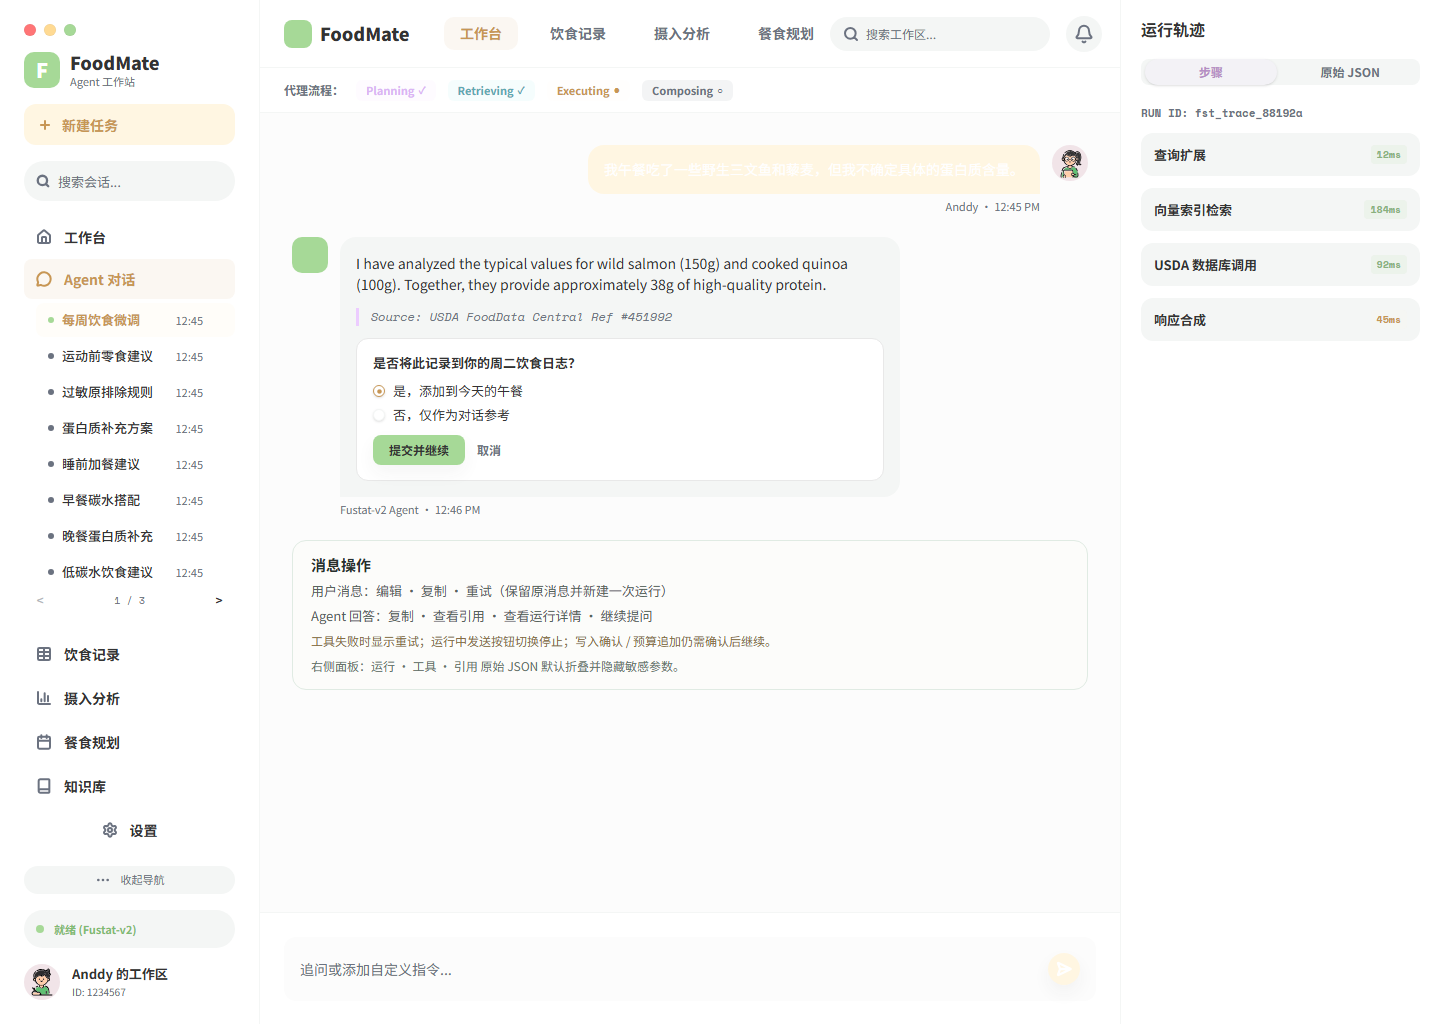
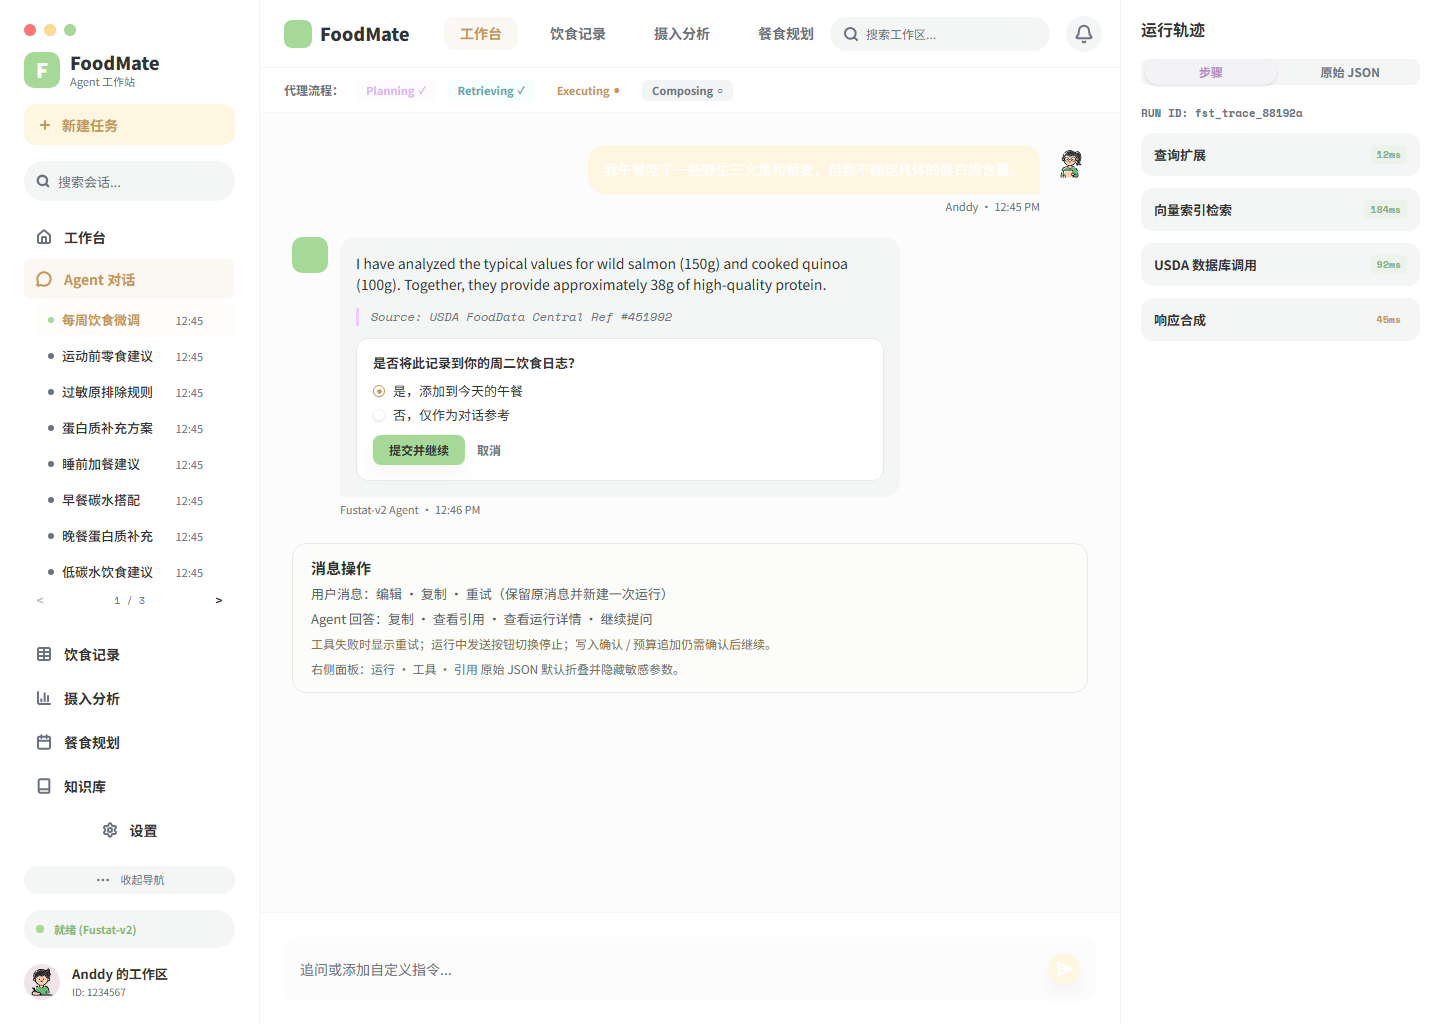
fix(ui): 收口 Chat 视觉与头像证据

Changed region(s): [[0.2188, 0.5312, 0.5312, 0.6875]]

diff --git a/foodmate-ui/src/pages/ChatPage/ChatPage.module.css b/foodmate-ui/src/pages/ChatPage/ChatPage.module.css
@@ -690,6 +690,11 @@
   border-color: #e8e8e8;
 }
 
+/* Figma 640:428 的消息操作面板与上一条消息之间保留 27px 的垂直节奏。 */
+.figmaDefaultPage .messageActions {
+  margin-top: 3px;
+}
+
 .designTracePanel .traceStepActive {
   border-color: transparent;
 }
@@ -736,6 +741,15 @@
   border-radius: 18px;
   overflow: hidden;
   background: var(--fm-color-avatar-surface);
+}
+
+/* Figma 头像容器填充不可见，避免默认头像外再出现一层粉色圆底。 */
+.designChatPage .userAvatar,
+.designChatPage .fixtureUserAvatar,
+.designChatPage .planningUserAvatar,
+.designChatPage .executingUserAvatar,
+.designChatPage .awaitingUserAvatar {
+  background: var(--fm-figma-avatar-surface);
 }
 
 .userAvatar img {

diff --git a/foodmate-ui/src/styles/tokens.css b/foodmate-ui/src/styles/tokens.css
@@ -181,6 +181,8 @@
   --fm-figma-workspace-rail-width: 320px;
   --fm-figma-workspace-wide-rail-width: 340px;
   --fm-figma-workspace-padding: 24px;
+  /* Figma Avatar 容器没有可见底色，人物 SVG 直接落在工作台表面。 */
+  --fm-figma-avatar-surface: transparent;
   --fm-figma-task-panel-offset: 54px;
 
   /* Figma 节点 989:3 / 1015:248 的工作台任务状态面板 Token。 */

diff --git a/foodmate-ui/src/layouts/WorkspaceLayout/WorkspaceLayout.module.css b/foodmate-ui/src/layouts/WorkspaceLayout/WorkspaceLayout.module.css
@@ -469,6 +469,12 @@
   object-fit: cover;
 }
 
+/* Figma 头像节点的容器填充为不可见，不能叠加默认粉色头像底。 */
+.figmaFixture .avatar,
+.figmaFixture .topAvatar {
+  background: var(--fm-figma-avatar-surface);
+}
+
 .deletedButton {
   width: 100%;
   justify-content: flex-start;

diff --git a/docxs/功能实现说明/Figma前端像素级验收报告.md b/docxs/功能实现说明/Figma前端像素级验收报告.md
@@ -2,6 +2,31 @@
 
 更新时间：2026-09-12
 
+## 1.1.11 2026-09-12 Agent Chat 头像修正版定向验收
+
+本批次仅复核 11 个受当前 Chat 视觉收口影响的画板，不重新采集其它 94 个画板。Figma PNG 使用头像修正后的原始尺寸，浏览器 PNG 使用对应视口、DPR 1 和字体加载完成条件；自动 diff 均为同尺寸 `COMPARED`，人工结论全部保留 `DIFF_REVIEW`。
+
+| 画板 | Figma 节点 | Figma PNG | 浏览器 PNG | diff JSON | 视口 / DPR | 差异比例 | MAE | RMSE | 最大通道差异 | 结论 |
+|---|---|---|---|---|---|---:|---:|---:|---:|---|
+| Agent Chat 默认态 | `640:428` | `recaptured-figma/agent-chat-v2-figma-2026-09-12-avatar-fixed.png` | `recaptured/dpr1-agent-chat-v2-browser-2026-09-12.png` | `recaptured/agent-chat-v2-current-diff-2026-09-12-avatar-fixed.json` | 1440×1024 / 1 | 11.5993% | 2.851583 | 17.155352 | 211 | `DIFF_REVIEW` |
+| 写入确认 | `687:773` | `recaptured-figma/agent-write-confirmation-figma-2026-09-12-avatar-fixed.png` | `recaptured/dpr1-agent-write-confirmation-browser-2026-09-12.png` | `recaptured/agent-write-confirmation-current-diff-2026-09-12-avatar-fixed.json` | 1440×1024 / 1 | 9.8721% | 1.941730 | 13.861204 | 255 | `DIFF_REVIEW` |
+| 预算上限 | `687:918` | `recaptured-figma/agent-budget-limit-figma-2026-09-12-avatar-fixed.png` | `recaptured/dpr1-agent-budget-limit-browser-2026-09-12.png` | `recaptured/agent-budget-limit-current-diff-2026-09-12-avatar-fixed.json` | 1440×1024 / 1 | 11.1479% | 2.475082 | 15.987961 | 255 | `DIFF_REVIEW` |
+| 工具失败可重试 | `687:1439` | `recaptured-figma/agent-tool-failed-retryable-figma-2026-09-12-avatar-fixed.png` | `recaptured/dpr1-agent-tool-failed-retryable-browser-2026-09-12.png` | `recaptured/agent-tool-failed-retryable-current-diff-2026-09-12-avatar-fixed.json` | 1440×1024 / 1 | 10.5202% | 2.241290 | 15.205827 | 255 | `DIFF_REVIEW` |
+| 安全降级 | `687:1563` | `recaptured-figma/agent-safety-degraded-figma-2026-09-12-avatar-fixed.png` | `recaptured/dpr1-agent-safety-degraded-browser-2026-09-12.png` | `recaptured/agent-safety-degraded-current-diff-2026-09-12-avatar-fixed.json` | 1440×1024 / 1 | 10.9746% | 2.384059 | 15.318975 | 255 | `DIFF_REVIEW` |
+| 用户取消 | `687:1684` | `recaptured-figma/agent-user-cancelled-figma-2026-09-12-avatar-fixed.png` | `recaptured/dpr1-agent-user-cancelled-browser-2026-09-12.png` | `recaptured/agent-user-cancelled-current-diff-2026-09-12-avatar-fixed.json` | 1440×1024 / 1 | 11.6638% | 1.886524 | 13.566194 | 255 | `DIFF_REVIEW` |
+| SSE 重连 | `687:1803` | `recaptured-figma/agent-sse-reconnecting-figma-2026-09-12-avatar-fixed.png` | `recaptured/dpr1-agent-sse-reconnecting-browser-2026-09-12.png` | `recaptured/agent-sse-reconnecting-current-diff-2026-09-12-avatar-fixed.json` | 1440×1024 / 1 | 17.1219% | 2.386343 | 15.099326 | 255 | `DIFF_REVIEW` |
+| 历史第 2 页 | `740:212` | `recaptured-figma/agent-chat-history-page-2-figma-2026-09-12-avatar-fixed.png` | `recaptured/dpr1-agent-chat-history-page-2-browser-2026-09-12.png` | `recaptured/agent-chat-history-page-2-current-diff-2026-09-12-avatar-fixed.json` | 1440×1024 / 1 | 12.3038% | 2.763826 | 17.209012 | 204 | `DIFF_REVIEW` |
+| 历史第 3 页 | `740:426` | `recaptured-figma/agent-chat-history-page-3-figma-2026-09-12-avatar-fixed.png` | `recaptured/dpr1-agent-chat-history-page-3-browser-2026-09-12.png` | `recaptured/agent-chat-history-page-3-current-diff-2026-09-12-avatar-fixed.json` | 1440×1024 / 1 | 12.3038% | 2.763826 | 17.209012 | 204 | `DIFF_REVIEW` |
+| 运行中停止 | `1013:653` | `recaptured-figma/agent-chat-running-stop-figma-2026-09-12-avatar-fixed.png` | `recaptured/dpr1-agent-chat-running-stop-browser-2026-09-12.png` | `recaptured/agent-chat-running-stop-current-diff-2026-09-12-avatar-fixed.json` | 1440×1024 / 1 | 20.9517% | 3.573441 | 19.594450 | 221 | `DIFF_REVIEW` |
+| 1366×768 特殊视口 | `1029:3` | `recaptured-figma/agent-chat-viewport-1366x768-figma-2026-09-12-avatar-fixed.png` | `recaptured/dpr1-agent-chat-viewport-1366x768-browser-2026-09-12.png` | `recaptured/agent-chat-viewport-1366x768-current-diff-2026-09-12-avatar-fixed.json` | 1366×768 / 1 | 48.3260% | 6.751348 | 25.661101 | 255 | `DIFF_REVIEW` |
+
+- [x] 11 个画板的 Figma/浏览器 PNG 均存在且尺寸一致；独立 diff JSON 均可解析并记录 `COMPARED`。
+- [x] Chat 默认态、六个 Agent 状态、历史页和停止态的人物头像运行时只使用两份登记 SVG；没有把 `.qa/legacy-avatars` 历史证据当作运行时资源。
+- [x] 本批次统一门禁：Vitest `46/46` 个测试文件、`307/307` 个用例通过；`typecheck`、`lint`、`format:check`、`build`、`qa:figma:validate` 和 `git diff --check` 均通过。证据校验为 `structuralPass=true`、`strictDprPass=true`、`mappedPass=0`、`diffReview=105`、`errors=[]`。
+- [ ] 自动差异均非零，字体光栅化、共享壳层、图标和局部布局差异仍需后续页面级收口，不能标记 `PASS`。
+- [ ] 本批次只更新 11 个受影响画板，不代表 105 个画板全部重新验收；全量聚合继续为 `105 DIFF_REVIEW / 0 PASS / 0 UNMAPPED / 0 SIZE_MISMATCH`。
+- [ ] iconfont 实体包、CSS/Unicode 映射、来源、许可证和 glyph-Figma 映射仍缺失，继续保持 `BLOCKED`。
+
 ## 1.1.10 2026-09-12 默认头像策略与 Workspace/Home 定向验收
 
 本批次只复核上一批次的头像入口收口和 Workspace/Home 任务状态面板，不重新采集或判定其它画板。Figma 参考节点为 Workspace/Home `640:256` 和 Agent Chat `640:428`，浏览器采集使用 DPR 1、字体加载完成和 `visual-qa=1`。

diff --git a/docxs/功能实现说明/前端已完成实现清单.md b/docxs/功能实现说明/前端已完成实现清单.md
@@ -1,5 +1,19 @@
 # 前端已完成实现清单
 
+## 当前批次：Chat 头像修正版证据登记（2026-09-12）
+
+本批次只处理 Agent Chat 相关的 11 个受影响画板，登记头像修正后的 Figma/浏览器截图和独立 diff，不重新采集或判定其它画板。Figma 设计稿不因本批次再次修改；所有页面仍以 Figma 作为唯一视觉来源，shadcn/Radix 只提供控件能力。
+
+- [x] `agent-chat-v2`、写入确认、预算上限、工具失败可重试、安全降级、用户取消、SSE 重连、历史第 2/3 页、运行中停止和 `1366×768` 特殊视口共 11 个画板已重新登记 2026-09-12 的 Figma PNG、浏览器 PNG 和独立 diff JSON。
+- [x] 11 个 diff 均为同尺寸 `COMPARED`：1440×1024 画板 10 个，1366×768 画板 1 个；浏览器证据按 DPR 1、字体加载完成和无横向溢出条件采集。
+- [x] `figma-105-mapping.json` 仅更新上述 11 个条目的 `figmaPng`、`browserPng` 和 `latestDiffJson`，未改动其它 94 个画板；全量汇总仍为 `105 DIFF_REVIEW / 0 PASS / 0 UNMAPPED / 0 SIZE_MISMATCH`。
+- [x] 当前批次的独立 diff 比例为：Chat 默认 `11.5993%`、写入确认 `9.8721%`、预算上限 `11.1479%`、工具失败 `10.5202%`、安全降级 `10.9746%`、用户取消 `11.6638%`、SSE 重连 `17.1219%`、历史第 2 页 `12.3038%`、历史第 3 页 `12.3038%`、运行中停止 `20.9517%`、1366×768 `48.3260%`；全部继续保持 `DIFF_REVIEW`。
[1 lines of base64/hex data omitted]
+- [x] 运行时代码未发现旧 Figma 人物地址；`.qa/figma-pixel-acceptance/legacy-avatars/` 只保留历史验收证据，不属于 Vite 运行时资源。认证页 `foodmate-*-user.svg` 仍仅是输入框装饰图标。
+- [x] 本大点统一门禁：Vitest `46/46` 个测试文件、`307/307` 个用例通过；`typecheck`、`lint`、`format:check`、`build`、`qa:figma:validate` 和 `git diff --check` 均通过。证据校验为 `structuralPass=true`、`strictDprPass=true`、`mappedPass=0`、`diffReview=105`、`errors=[]`。
+- [ ] 本批次不将头像资源替换或局部截图证据误写成像素级 `PASS`；后续只处理受影响页面，不重复验收全部 105 个画板。
+- [ ] iconfont 实体包、CSS/Unicode 映射、来源、许可证和 glyph-Figma 映射仍未提供，登记状态继续保持 `BLOCKED`。
+
 ## 当前批次：默认头像策略与 Workspace/Home 视觉收口（2026-09-12）
 
 本批次完成上一批次遗留的运行时头像入口收口和 Workspace/Home 任务状态面板定向复核；只采集受影响的 Home/Chat 画板，不重新验收全部 105 个画板。
